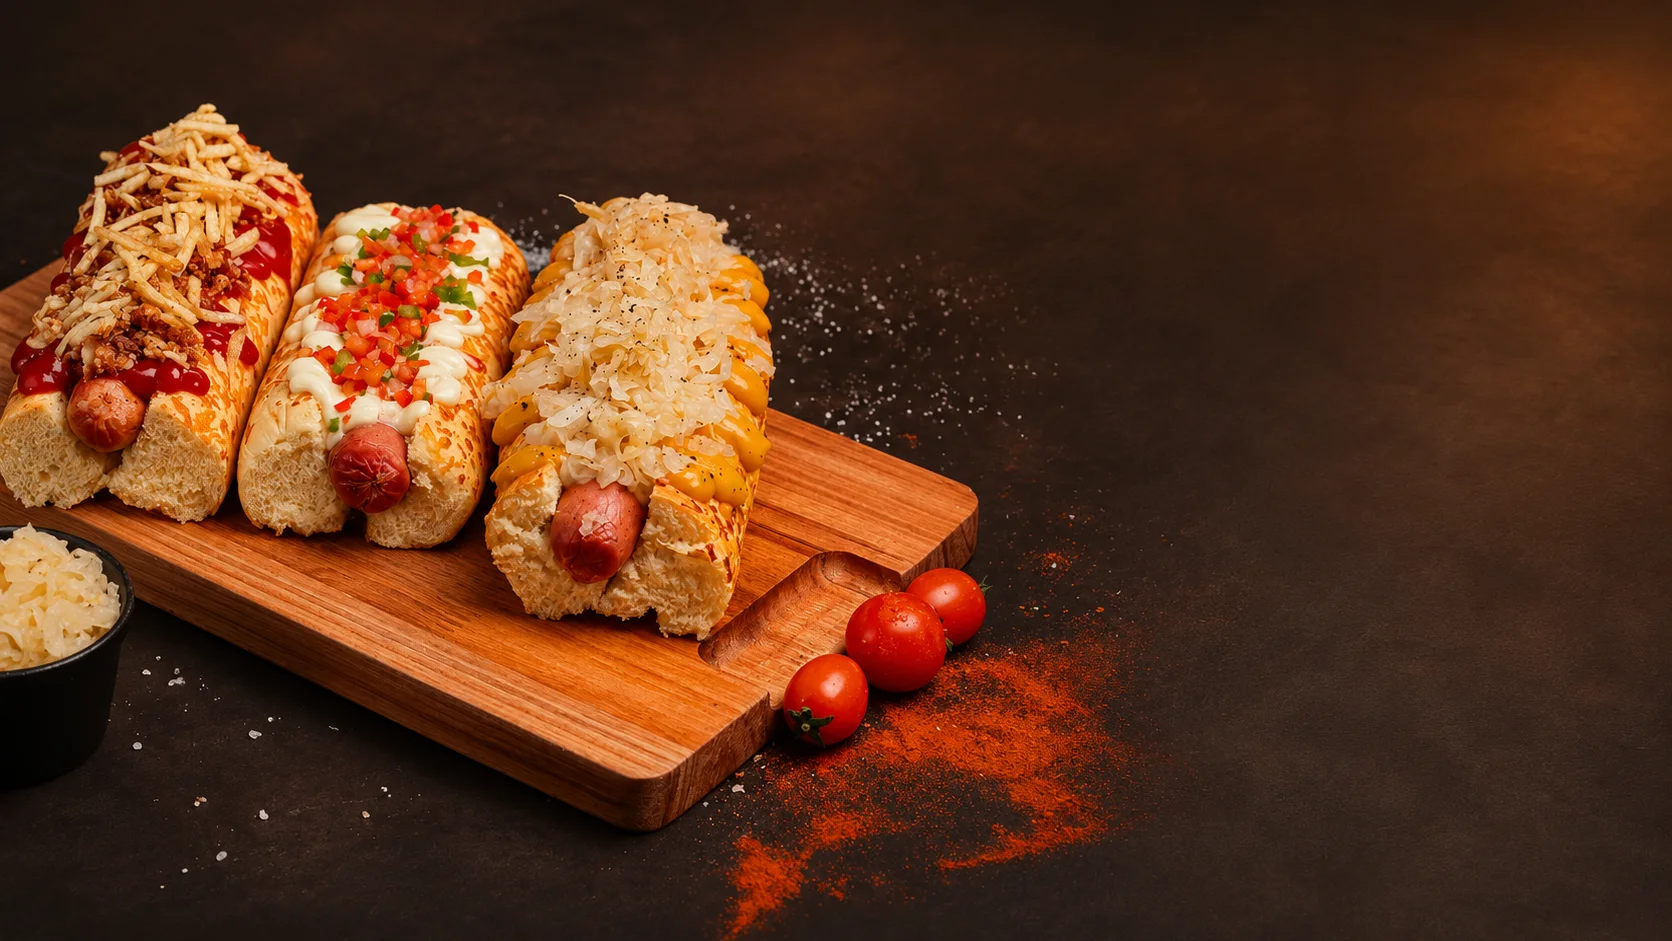
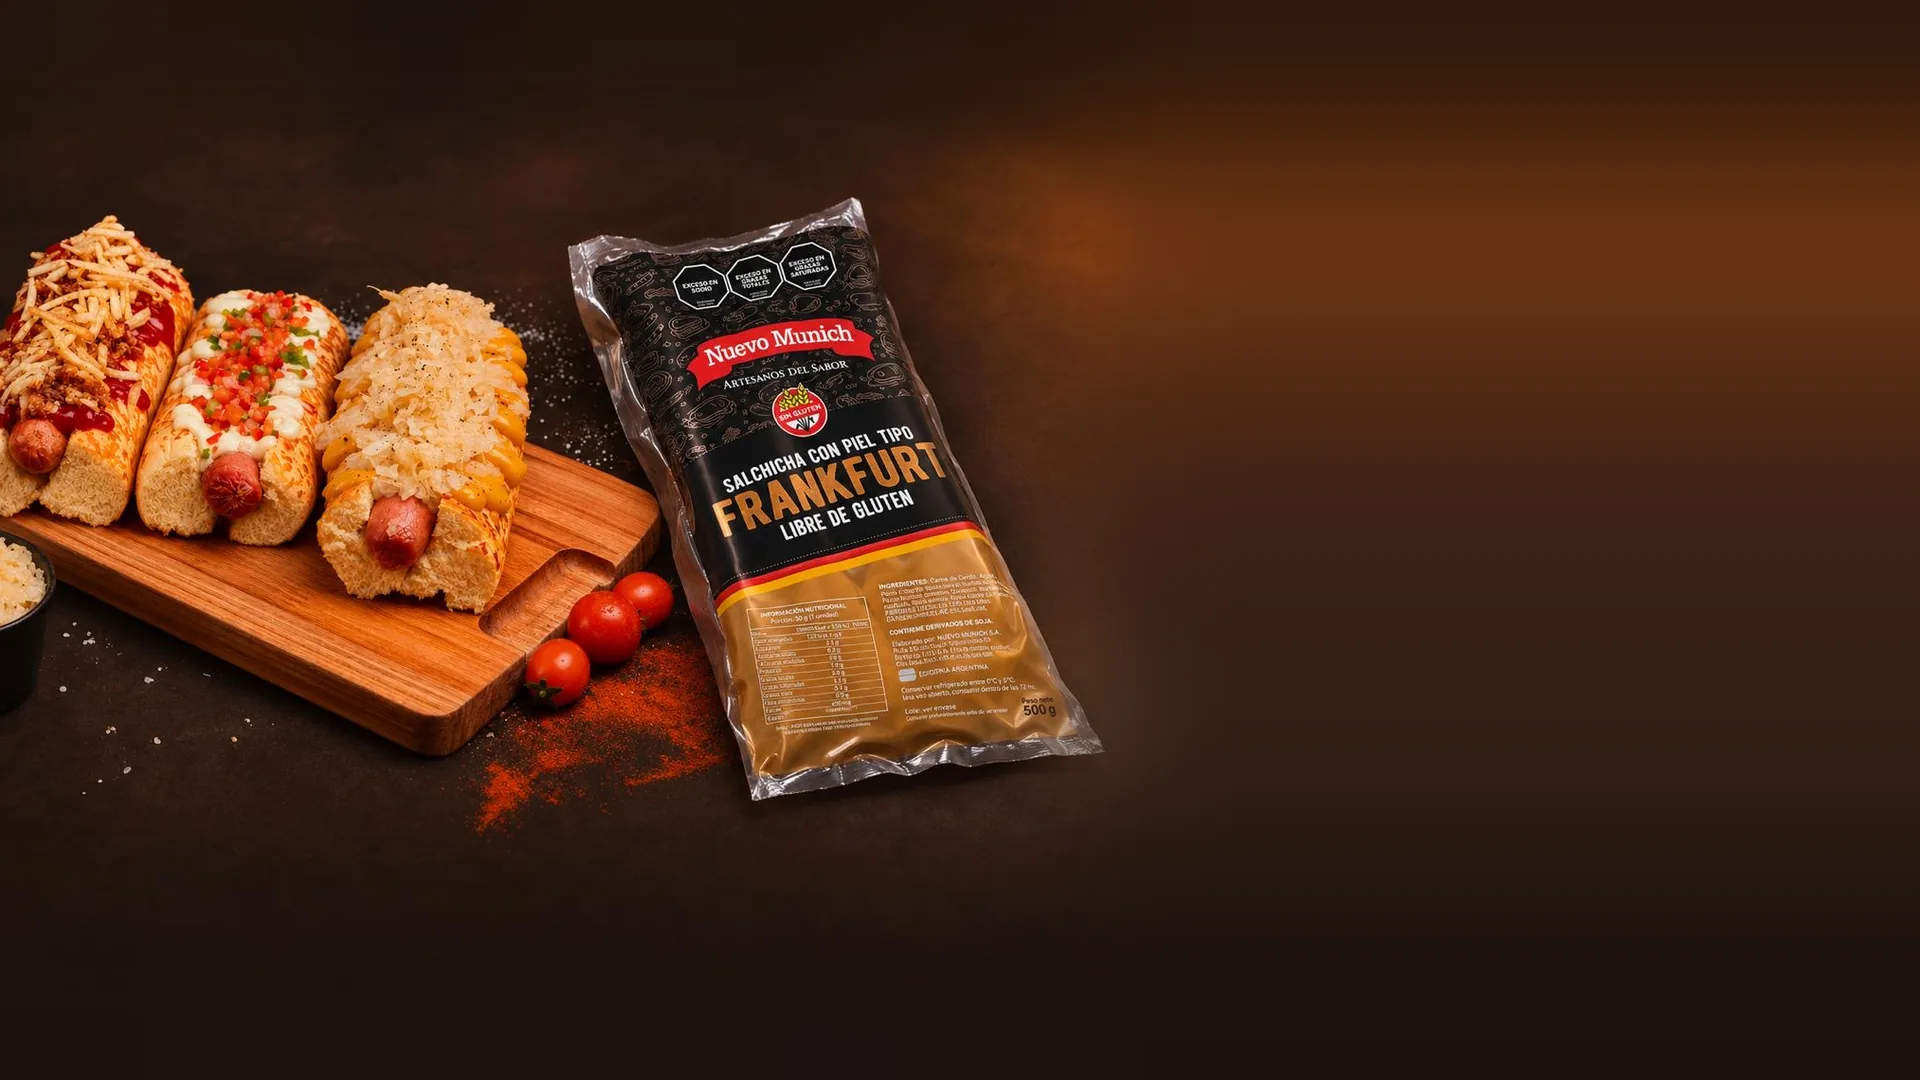
Nueva foto del hero, Bondiola entera y ajuste del hero en celular (#1)
* Bondiola entera con presentación y sin hueco bajo el hero en celular

- Especialidades > Bondiola: es la pieza entera (venta al peso). Se suma presentación, descripción e ingredientes según la etiqueta.
- Hero: el alto de pantalla completa queda solo desde 640 px; en celular ya no queda un espacio vacío antes de las categorías.

Claude-Session: https://claude.ai/code/session_01XwwF6qtuRpLKZFdiKzmmrc

* Nueva foto principal del hero: panchos + salchicha tipo Frankfurt

Se extendió el fondo hacia la derecha para mantener la proporción 16:9 y que el texto
en pantallas anchas quede en la zona libre, sin tapar el envase.

Claude-Session: https://claude.ai/code/session_01XwwF6qtuRpLKZFdiKzmmrc

---------

diff --git a/src/components/Hero.jsx b/src/components/Hero.jsx
@@ -21,10 +21,10 @@ function Palabra({ children, delay }) {
 // En ningún caso hay letras encima de la comida.
 export default function Hero() {
   return (
-    <section id="top" className="relative flex min-h-[100svh] flex-col bg-humo ancho:block ancho:h-[100svh] ancho:min-h-[420px]">
+    <section id="top" className="relative flex flex-col bg-humo sm:min-h-[100svh] ancho:block ancho:h-[100svh] ancho:min-h-[420px]">
       <div className="relative mt-20 aspect-[4/3] w-full shrink-0 overflow-hidden sm:aspect-video ancho:absolute ancho:inset-0 ancho:mt-0 ancho:aspect-auto ancho:h-full">
         <motion.img
-          src={marca.hero} alt="Trío de panchos Nuevo Munich sobre tabla de madera" fetchPriority="high"
+          src={marca.hero} alt="Trío de panchos y salchicha con piel tipo Frankfurt Nuevo Munich" fetchPriority="high"
           initial={{ opacity: 0, scale: 1.05 }}
           animate={{ opacity: 1, scale: 1 }}
           transition={{ duration: 1.6, ease }}

diff --git a/src/data/seed.js b/src/data/seed.js
@@ -346,8 +346,9 @@ export const productos = [
     ],
   }),
   // especialidades
-  p('especialidades', 'Bondiola', [], {
-    ingredientes: 'Bondiola de cerdo, pimienta negra, coriandro, sal y azúcar.',
+  p('especialidades', 'Bondiola', ['Pieza entera · venta al peso'], {
+    descripcion: 'Pieza entera envasada al vacío, para fetear.',
+    ingredientes: 'Carne de cerdo, azúcar, sal y coriandro.',
     sugerencias: 'Ideal para tablas y sándwiches.',
     imagenes: [
       'img/productos/especialidades-bondiola/1.webp',
